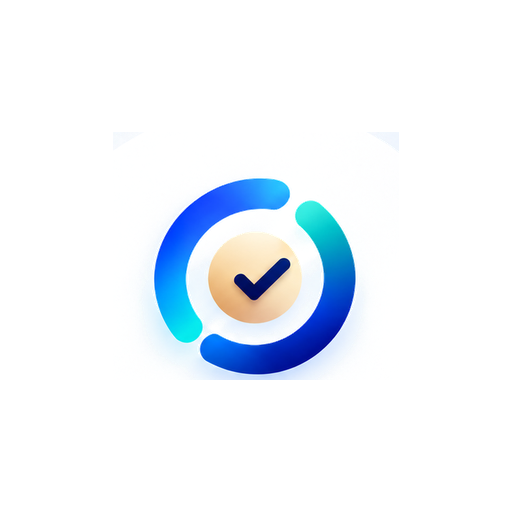
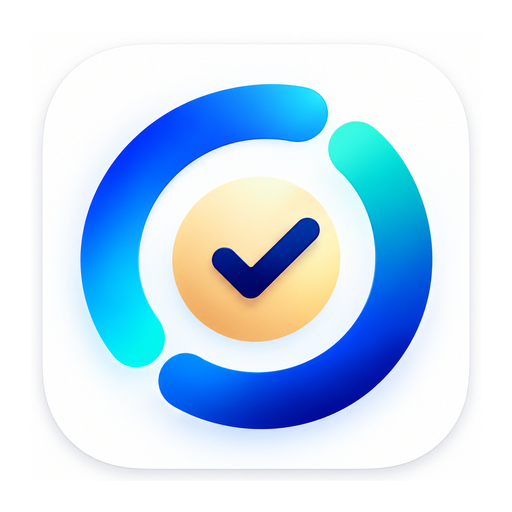
Add files via upload

diff --git a/service-worker.js b/service-worker.js
@@ -1,5 +1,5 @@
-const CACHE='opsym-v1902-shell';
-const CORE=['./','./index.html','./app.js','./styles.css','./icon-192.png','./icon-512.png','./icon-maskable-512.png','./opsym-logo.png','./manifest.webmanifest'];
+const CACHE='opsym-v1903-icon-shell';
+const CORE=['./','./index.html','./app.js','./styles.css','./icon-192.png','./icon-512.png','./icon-maskable-512.png','./apple-touch-icon.png','./favicon-32.png','./favicon-48.png','./opsym-logo.png','./manifest.webmanifest'];
 self.addEventListener('install',event=>{event.waitUntil(caches.open(CACHE).then(cache=>cache.addAll(CORE)).then(()=>self.skipWaiting()));});
 self.addEventListener('activate',event=>{event.waitUntil(caches.keys().then(keys=>Promise.all(keys.filter(key=>key!==CACHE).map(key=>caches.delete(key)))).then(()=>self.clients.claim()));});
 self.addEventListener('fetch',event=>{

diff --git a/index.html b/index.html
@@ -9,8 +9,10 @@
   <meta name="apple-mobile-web-app-capable" content="yes">
   <meta name="apple-mobile-web-app-status-bar-style" content="default">
   <title>Op-Sym v1.9.0.2 - Android Integration Fix</title>
-  <link rel="manifest" href="manifest.webmanifest?v=1902">
-  <link rel="apple-touch-icon" sizes="192x192" href="icon-192.png">
+  <link rel="manifest" href="manifest.webmanifest?v=1903">
+  <link rel="icon" type="image/png" sizes="32x32" href="favicon-32.png?v=1903">
+  <link rel="icon" type="image/png" sizes="48x48" href="favicon-48.png?v=1903">
+  <link rel="apple-touch-icon" sizes="180x180" href="apple-touch-icon.png?v=1903">
   <link rel="stylesheet" href="styles.css?v=7.9.0.2-android-integration">
 </head>
 <body>
